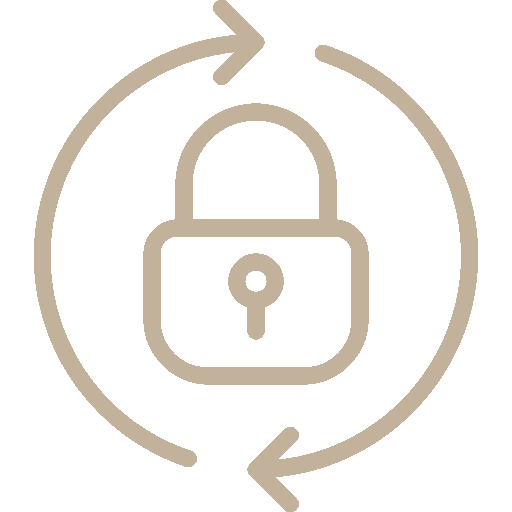
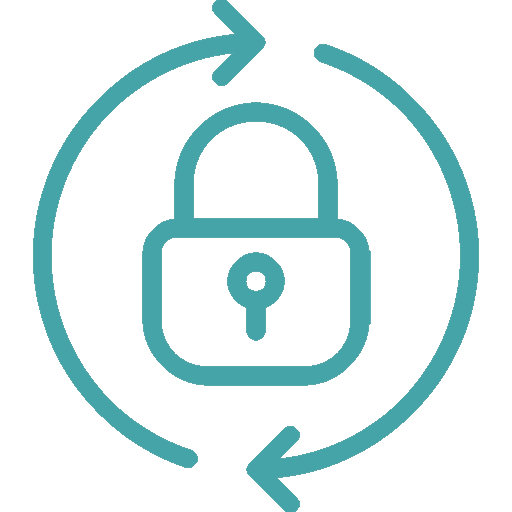
change password input states, handlers. new primary img lock

Changed region(s): [[0.0625, 0.0, 0.75, 0.9375], [0.4688, 0.0625, 0.9375, 1.0]]

diff --git a/screens/ChangePassword.screen.jsx b/screens/ChangePassword.screen.jsx
@@ -1,4 +1,4 @@
-import React from 'react';
+import React, { useState } from 'react';
 import { FDefaultLayout } from 'layouts/FDefault.layout';
 import icons from 'themes/icons';
 import sizes from 'themes/sizes';
@@ -13,61 +13,85 @@ import { FButton } from 'components/Buttons/FButton';
 import { View, StyleSheet, Platform } from 'react-native';
 import { FImage } from 'components/Composition/FImage';
 import images from 'constants/images';
-import { FKeyboardWrapper } from '../components/Utils/FKeyboardWrapper';
+import { FKeyboardWrapper } from 'components/Utils/FKeyboardWrapper';
 
-export const ChangePasswordScreen = () => (
-  <FDefaultLayout
-    hasFlatList={false}
-    withLogo={false}
-  >
-    <FKeyboardWrapper>
-      <>
-        <View style={styles.imageContainer}>
-          <FImage
-            imagePath={images.CHANGE_PASSWORD()}
-            width={sizes.WIDTH_120}
-            height={sizes.HEIGHT_120}
+export const ChangePasswordScreen = () => {
+  const [
+    oldEmail,
+    setOldEmail,
+  ] = useState('');
+  const [
+    newEmail,
+    setNewEmail,
+  ] = useState('');
+  const [
+    confirmNewEmail,
+    setConfirmNewEmail,
+  ] = useState('');
+
+  const oldEmailInputHandler = (email) => {
+    setOldEmail(email);
+  };
+  const confirmNewEmailInputHandler = (email) => {
+    setConfirmNewEmail(email);
+  };
+  const newEmailInputHandler = (email) => {
+    setNewEmail(email);
+  };
+  return (
+    <FDefaultLayout>
+      <FKeyboardWrapper>
+        <>
+          <View style={styles.imageContainer}>
+            <FImage
+              imagePath={images.CHANGE_PASSWORD()}
+              width={sizes.WIDTH_120}
+              height={sizes.HEIGHT_120}
+            />
+          </View>
+          <FInput
+            iconPlacement={placements.LEFT}
+            type={inputTypes.PASSWORD}
+            icon={icons.LOCK_CLOSED_OUTLINE}
+            placeholder={locales.PASS_OLD_PASSWORD}
+            marginBottom={sizes.MARGIN_30}
+            onChangeText={oldEmailInputHandler}
           />
-        </View>
-        <FInput
-          iconPlacement={placements.LEFT}
-          type={inputTypes.PASSWORD}
-          icon={icons.LOCK_CLOSED_OUTLINE}
-          placeholder={locales.PASS_OLD_PASSWORD}
-          marginBottom={sizes.MARGIN_30}
-        />
-        <FInput
-          iconPlacement={placements.LEFT}
-          type={inputTypes.PASSWORD}
-          icon={icons.LOCK_CLOSED_OUTLINE}
-          placeholder={locales.PASS_NEW_PASSWORD}
-        />
-        <FInput
-          iconPlacement={placements.LEFT}
-          type={inputTypes.PASSWORD}
-          icon={icons.LOCK_CLOSED_OUTLINE}
-          placeholder={locales.REPEAT_NEW_PASSWORD}
-        />
-        <View style={styles.buttonContainer}>
-          <FButton
-            title={locales.CHANGE_PASSWORD}
-            type={buttonTypes.TEXT_BUTTON}
-            backgroundColor={colors.DARK_PRIMARY}
-            color={colors.WHITE}
-            titleWeight={fonts.HEADING_WEIGHT_BOLD}
-            titleSize={fonts.HEADING_MEDIUM}
+          <FInput
+            iconPlacement={placements.LEFT}
+            type={inputTypes.PASSWORD}
+            icon={icons.LOCK_CLOSED_OUTLINE}
+            placeholder={locales.PASS_NEW_PASSWORD}
+            onChangeText={newEmailInputHandler}
           />
-        </View>
-      </>
-    </FKeyboardWrapper>
-  </FDefaultLayout>
-);
+          <FInput
+            iconPlacement={placements.LEFT}
+            type={inputTypes.PASSWORD}
+            icon={icons.LOCK_CLOSED_OUTLINE}
+            placeholder={locales.REPEAT_NEW_PASSWORD}
+            onChangeText={confirmNewEmailInputHandler}
+          />
+          <View style={styles.buttonContainer}>
+            <FButton
+              title={locales.CHANGE_PASSWORD}
+              type={buttonTypes.TEXT_BUTTON}
+              backgroundColor={colors.PRIMARY}
+              color={colors.WHITE}
+              titleWeight={fonts.HEADING_WEIGHT_BOLD}
+              titleSize={fonts.HEADING_MEDIUM}
+            />
+          </View>
+        </>
+      </FKeyboardWrapper>
+    </FDefaultLayout>
+  );
+};
 
 const styles = StyleSheet.create({
   imageContainer: {
     width: sizes.WIDTH_FULL,
     alignItems: placements.CENTER,
-    marginVertical: Platform.OS === 'ios' ? sizes.MARGIN_30 : 0,
+    marginVertical: Platform.OS === 'ios' ? sizes.MARGIN_50 : 0,
   },
   buttonContainer: {
     alignItems: placements.CENTER,
